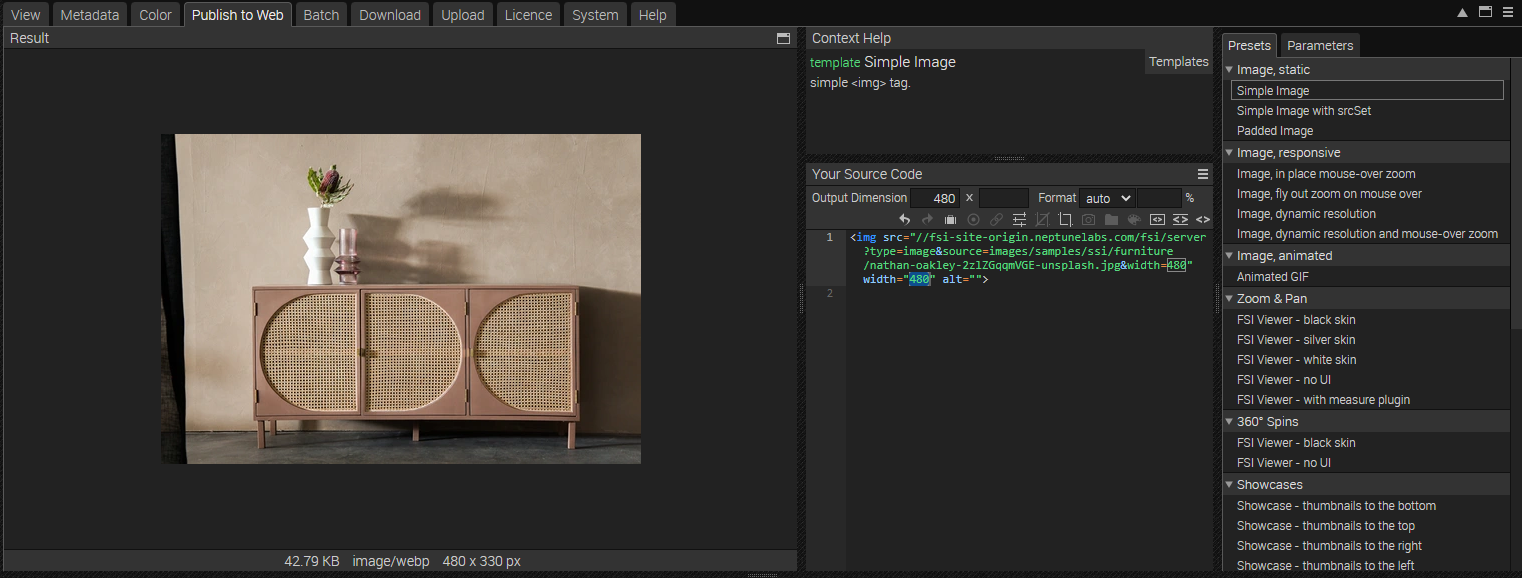
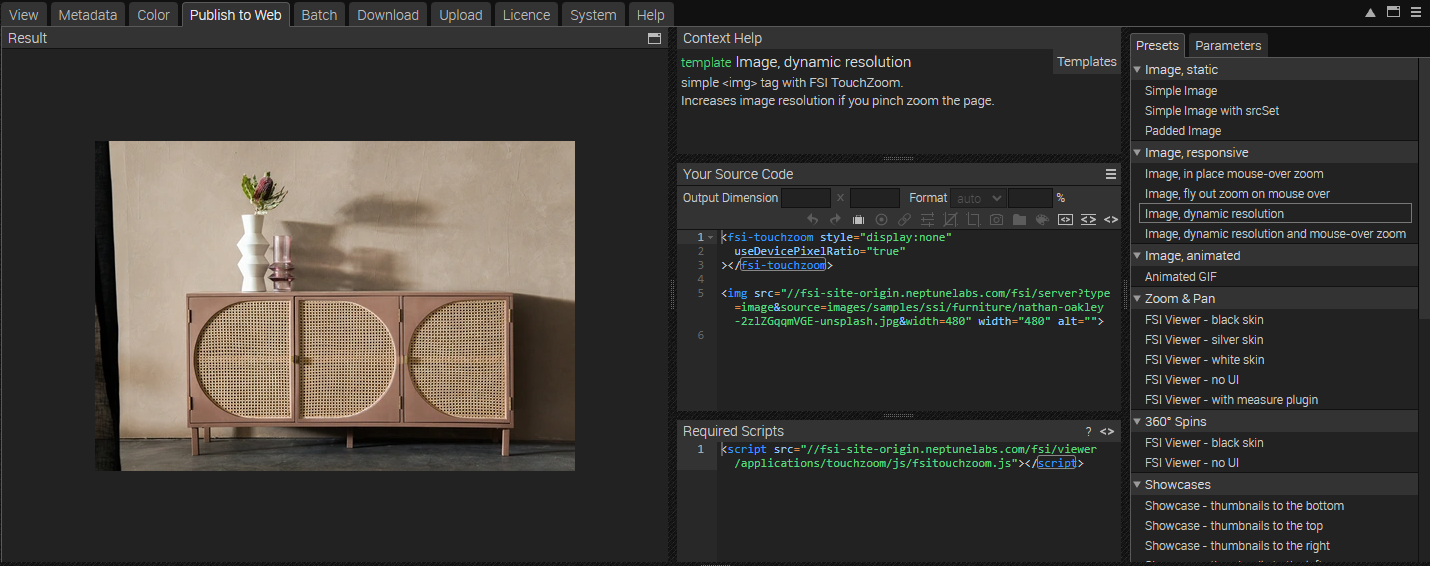
polish readmes

diff --git a/samples/plp/index.html b/samples/plp/index.html
@@ -11,7 +11,6 @@
   <link rel="stylesheet" type="text/css" href="https://cdn.jsdelivr.net/npm/bootstrap@5.0.2/dist/css/bootstrap.min.css">
   <link rel="stylesheet" type="text/css" href="https://cdn.jsdelivr.net/npm/bootstrap-icons@1.5.0/font/bootstrap-icons.css">
   <script src="https://cdn.jsdelivr.net/npm/bootstrap@5.0.2/dist/js/bootstrap.bundle.min.js" crossorigin="anonymous"></script>
-
 </head>
 <body class="bg-light">
 

diff --git a/samples/pdp/README.md b/samples/pdp/README.md
@@ -9,14 +9,9 @@ It also shows how FSI TouchZoom is used.
 First, you'll need to upload the images you want to use to FSI Server.
 You can install a [demo version](https://www.neptunelabs.com/get/) via Docker or use our [online demo server](https://demo.fsi-server.com/fsi/interface/) to try it out first.
 
-It's important to use the correct source connector for your images:
-
-- *Storage*: images will be imported to the storage for high performance Single Source Imaging
-- *Static*: for static files only, e.g. style graphics you want to use on your website
-
 # Uploading images
 
-Depending on the type of the selected source connector, you can upload different types of files. There are several possibilities to upload images into the interface.
+There are several possibilities to upload images into the interface.
 
 ![Config Image](readme-pdp.png)
 
@@ -26,22 +21,19 @@ Depending on the type of the selected source connector, you can upload different
 # Use images on the website
 
 While having an image or folder selected, you can see all possible publishing ways for the specific item by visting the Publish To Web tab.
-For this example, select the preset *Simple Image*:
+For this example, select the preset *Image, dynamic resolution* in the section **Image, responsive**:
 
 ![Config Image](readme-pdp-1.png)
 
-Simple Image publishes the image with a simple <img> tag. Requires a single high resolution image. You can set the output dimensions and format (auto automatically chooses the best format for the browser used, or you can set WEBP, JPEG, PNG or GIF) as well as add various effects to the static image.
+The *Source Code* section enables you to control the look of your image or viewer by setting the output dimensions and format (auto automatically chooses the best format for the browser used, or you can set WEBP, JPEG, PNG or GIF), as well as adding effects or crop options to it.
+In this area you also can see the source code for your selected publishing option which you can edit and copy to publish the images.
 
 ![Config Image](readme-pdp-2.png)
-
-The *Source Code* section enables you to control the look of your image or viewer by setting the dimensions and format, as well as adding effects or crop options to it.
-In this area you also can see the source code for your selected publishing option which you can edit and copy to publish the images.
 
 You can then add the images to your site via image tag:
 
 ```html
  <img
-  class="card-img-top img-fluid"
   src="//fsi-site.neptunelabs.com/fsi/server?type=image&source=images/samples/ssi/furniture/nathan-oakley-boFO5uIUKUU-unsplash.jpg&width=283"
   alt="" width="283">
 ```

diff --git a/samples/plp/README.md b/samples/plp/README.md
@@ -9,14 +9,9 @@ It also shows how FSI TouchZoom is used.
 First, you'll need to upload the images you want to use to FSI Server.
 You can install a [demo version](https://www.neptunelabs.com/get/) via Docker or use our [online demo server](https://demo.fsi-server.com/fsi/interface/) to try it out first.
 
-It's important to use the correct source connector for your images:
-
-- *Storage*: images will be imported to the storage for high performance Single Source Imaging
-- *Static*: for static files only, e.g. style graphics you want to use on your website
-
 # Uploading images
 
-Depending on the type of the selected source connector, you can upload different types of files. There are several possibilities to upload images into the interface.
+There are several possibilities to upload images into the interface.
 
 ![Config Image](readme-plp.png)
 
@@ -26,22 +21,19 @@ Depending on the type of the selected source connector, you can upload different
 # Use images on the website
 
 While having an image or folder selected, you can see all possible publishing ways for the specific item by visting the Publish To Web tab.
-For this example, select the preset *Simple Image*:
+For this example, select the preset *Image, dynamic resolution* in the section **Image, responsive**:
 
 ![Config Image](readme-plp-1.png)
 
-Simple Image publishes the image with a simple <img> tag. Requires a single high resolution image. You can set the output dimensions and format (auto automatically chooses the best format for the browser used, or you can set WEBP, JPEG, PNG or GIF) as well as add various effects to the static image.
+The *Source Code* section enables you to control the look of your image or viewer by setting the output dimensions and format (auto automatically chooses the best format for the browser used, or you can set WEBP, JPEG, PNG or GIF), as well as adding effects or crop options to it.
+In this area you also can see the source code for your selected publishing option which you can edit and copy to publish the images.
 
 ![Config Image](readme-plp-2.png)
-
-The *Source Code* section enables you to control the look of your image or viewer by setting the dimensions and format, as well as adding effects or crop options to it.
-In this area you also can see the source code for your selected publishing option which you can edit and copy to publish the images.
 
 You can then add the images to your site via image tag:
 
 ```html
  <img
-  class="card-img-top img-fluid"
   src="//fsi-site.neptunelabs.com/fsi/server?type=image&source=images/samples/ssi/furniture/nathan-oakley-boFO5uIUKUU-unsplash.jpg&width=283"
   alt="" width="283">
 ```

diff --git a/samples/frontpage/README.md b/samples/frontpage/README.md
@@ -9,14 +9,9 @@ It also shows how FSI TouchZoom is used.
 First, you'll need to upload the images you want to use to FSI Server.
 You can install a [demo version](https://www.neptunelabs.com/get/) via Docker or use our [online demo server](https://demo.fsi-server.com/fsi/interface/) to try it out first.
 
-It's important to use the correct source connector for your images:
-
-- *Storage*: images will be imported to the storage for high performance Single Source Imaging
-- *Static*: for static files only, e.g. style graphics you want to use on your website
-
 # Uploading images
 
-Depending on the type of the selected source connector, you can upload different types of files. There are several possibilities to upload images into the interface.
+There are several possibilities to upload images into the interface.
 
 ![Config Image](readme-front.png)
 
@@ -26,16 +21,14 @@ Depending on the type of the selected source connector, you can upload different
 # Use images on the website
 
 While having an image or folder selected, you can see all possible publishing ways for the specific item by visting the Publish To Web tab.
-For this example, select the preset *Simple Image*:
+For this example, select the preset *Image, dynamic resolution* in the section **Image, responsive**:
 
 ![Config Image](readme-front-1.png)
 
-Simple Image publishes the image with a simple <img> tag. Requires a single high resolution image. You can set the output dimensions and format (auto automatically chooses the best format for the browser used, or you can set WEBP, JPEG, PNG or GIF) as well as add various effects to the static image.
+The *Source Code* section enables you to control the look of your image or viewer by setting the output dimensions and format (auto automatically chooses the best format for the browser used, or you can set WEBP, JPEG, PNG or GIF), as well as adding effects or crop options to it.
+In this area you also can see the source code for your selected publishing option which you can edit and copy to publish the images.
 
 ![Config Image](readme-front-2.png)
-
-The *Source Code* section enables you to control the look of your image or viewer by setting the dimensions and format, as well as adding effects or crop options to it.
-In this area you also can see the source code for your selected publishing option which you can edit and copy to publish the images.
 
 You can then add the images to your site via image tag:
 
